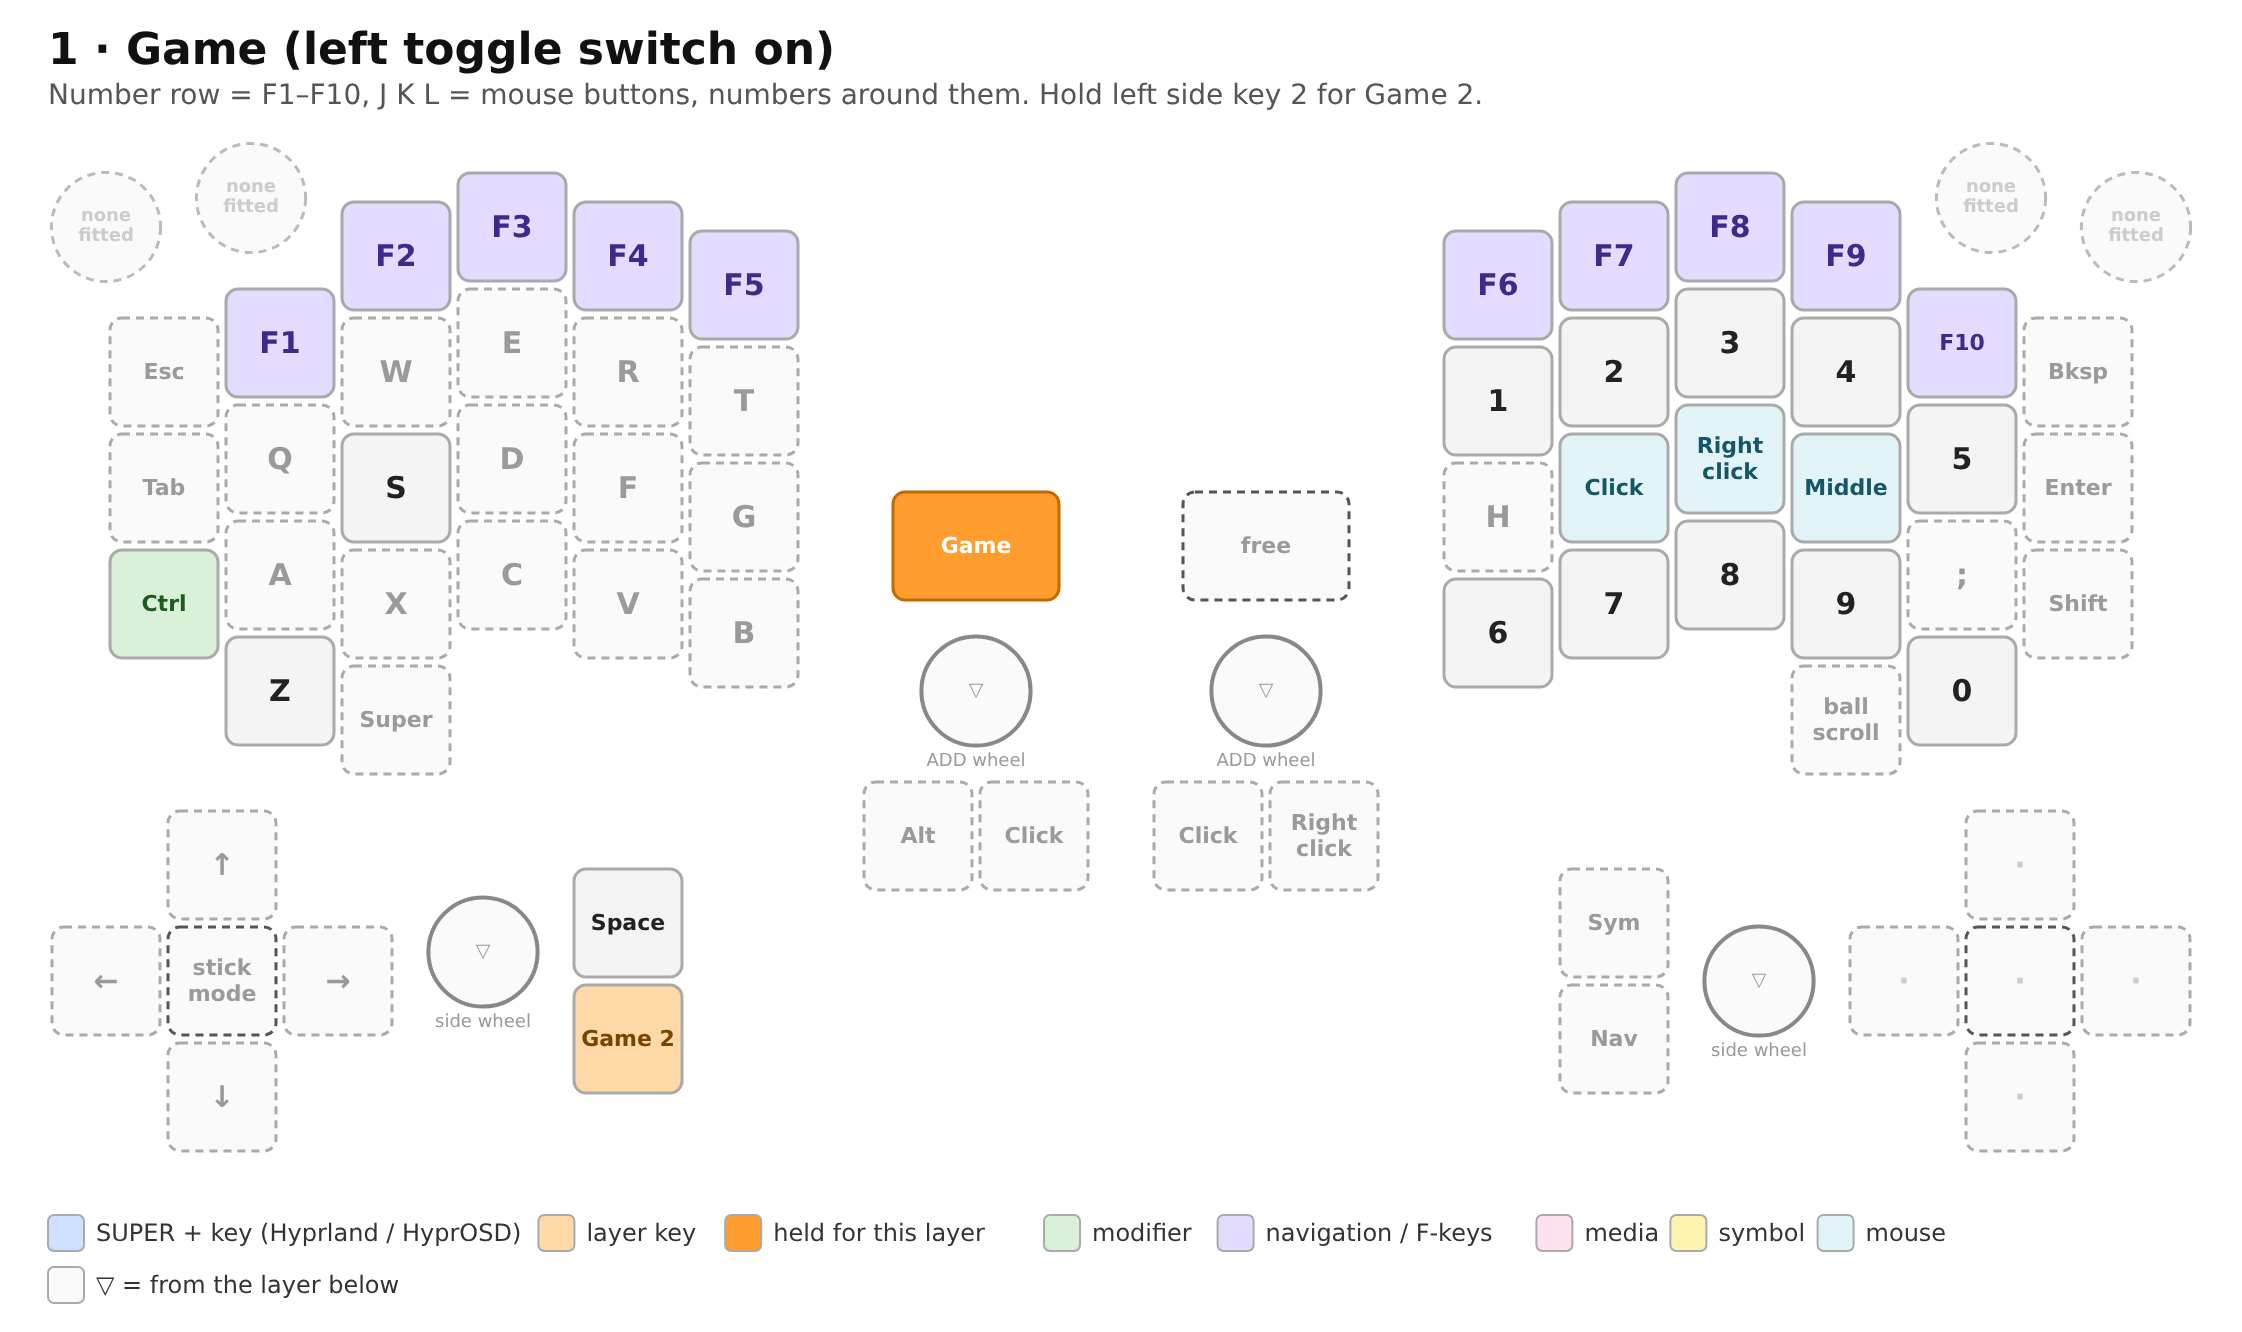
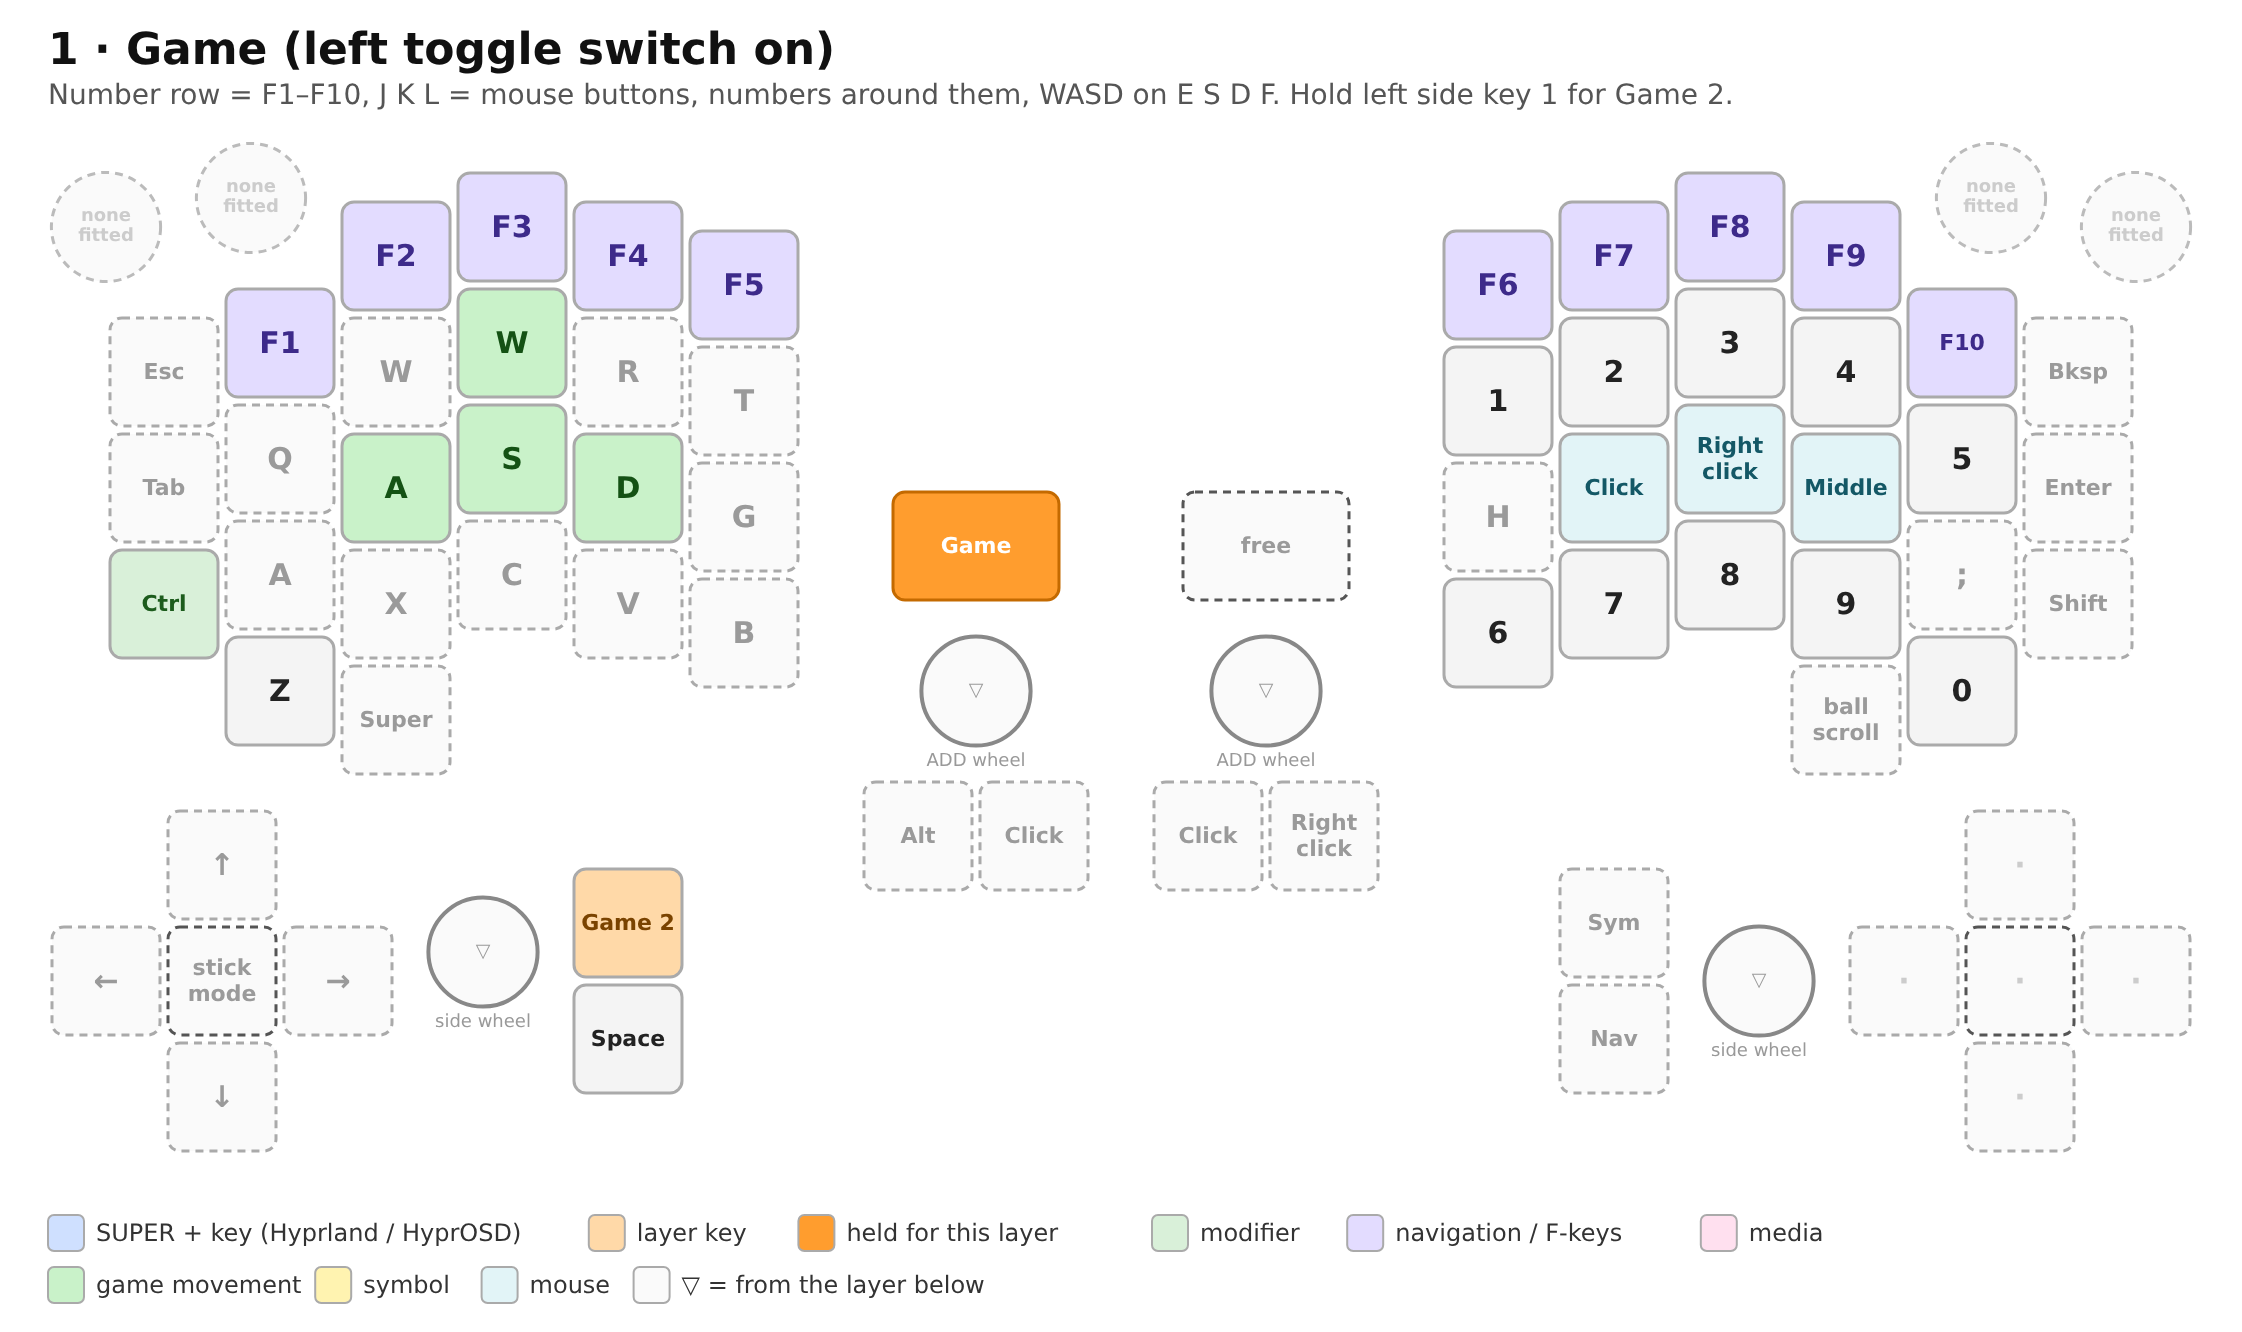
Game: WASD on E S D F, Game 2 on left side key 1, Space on side key 2
The real e s d f are on Game 2 with the other moved keys. Legend
spacing in the pictures fixed.

Claude-Session: https://claude.ai/code/session_019RXHZs18hyJP8Mu26EaWoe

diff --git a/hyprland/tools/render.py b/hyprland/tools/render.py
@@ -167,13 +167,15 @@ LAYERS = [
     {
         "file": "layer1-game", "title": "1 · Game  (left toggle switch on)",
         "note": "Number row = F1–F10, J K L = mouse buttons, numbers around "
-                "them. Hold left side key 2 for Game 2.",
+                "them, WASD on E S D F. Hold left side key 1 for Game 2.",
         "here": "LTOG",
         "keys": {
-            "CTL": ("Ctrl", "mod"), "Z": ("Z", "key"), "S": ("S", "key"),
+            "CTL": ("Ctrl", "mod"), "Z": ("Z", "key"),
             **{n: (f"F{n}", "nav") for n in "1 2 3 4 5 6 7 8 9".split()},
             "0": ("F10", "nav"),
-            "LSIDE1": ("Space", "key"), "LSIDE2": ("Game 2", "layer"),
+            "LSIDE1": ("Game 2", "layer"), "LSIDE2": ("Space", "key"),
+            "E": ("W", "game"), "S": ("A", "game"), "D": ("S", "game"),
+            "F": ("D", "game"),
             "J": ("Click", "mouse"), "K": ("Right|click", "mouse"),
             "L": ("Middle", "mouse"),
             "Y": ("1", "key"), "U": ("2", "key"), "I": ("3", "key"),
@@ -184,10 +186,10 @@ LAYERS = [
         "wheels": {},
     },
     {
-        "file": "layer3-game2", "title": "3 · Game 2  (in Game: hold left side key 2)",
+        "file": "layer3-game2", "title": "3 · Game 2  (in Game: hold left side key 1)",
         "note": "Everything Game moved away: the numbers, the letters "
-                "under the clicks and numbers, F11 / F12, auto mouse on / off.",
-        "here": "LSIDE2", "here_label": "Game 2", "below": "layer1-game",
+                "under the clicks, numbers and WASD, F11 / F12, auto mouse on / off.",
+        "here": "LSIDE1", "here_label": "Game 2", "below": "layer1-game",
         "keys": {
             "ESC": ("F11", "nav"), "BSPC": ("F12", "nav"),
             **{n: (n, "key") for n in "1 2 3 4 5 6 7 8 9 0".split()},
@@ -195,6 +197,7 @@ LAYERS = [
             "SCLN": (";", "key"), "COMM": (",", "key"), "DOT": (".", "key"),
             "SLSH": ("/", "key"),
             "LSCRL": ("Auto|mouse", "cfg"),
+            **{n: (n, "key") for n in "E S D F".split()},
         },
         "wheels": {},
     },
@@ -211,6 +214,7 @@ COLORS = {  # fill, text
     "sym": ("#fff3b0", "#6b5600"),
     "mouse": ("#e2f4f7", "#145866"),
     "cfg": ("#e8e8e8", "#555"),
+    "game": ("#c9f2c9", "#145214"),
     "none": ("#fafafa", "#bbb"),
     "trns": ("#fafafa", "#9a9a9a"),
     "absent": ("#fafafa", "#ccc"),
@@ -218,7 +222,7 @@ COLORS = {  # fill, text
 LEGEND = [("hypr", "SUPER + key (Hyprland / HyprOSD)"),
           ("layer", "layer key"), ("here", "held for this layer"),
           ("mod", "modifier"), ("nav", "navigation / F-keys"),
-          ("media", "media"), ("sym", "symbol"), ("mouse", "mouse"),
+          ("media", "media"), ("game", "game movement"), ("sym", "symbol"), ("mouse", "mouse"),
           ("trns", "▽ = from the layer below")]
 
 U = 58           # pixels per key unit
@@ -343,7 +347,7 @@ def render(layer, pos, names):
                  f'fill="{fill}" stroke="#aaa"/>')
         s.append(f'<text x="{lx + 24}" y="{ly + 13}" font-size="12" '
                  f'fill="#333">{escape(desc)}</text>')
-        lx += 34 + len(desc) * 6.6
+        lx += 40 + len(desc) * 7.2
         if lx > width - 200:
             lx, ly = PAD, ly + 26
     s.append("</svg>")

diff --git a/hyprland/README.md b/hyprland/README.md
@@ -45,7 +45,7 @@ The Hyprland side is in [`killerwhale.lua`](killerwhale.lua).
 | 0 | Base | always |
 | 1 | Game | left toggle switch on |
 | 2 | (free) | right toggle switch on |
-| 3 | Game 2 | in Game: hold left side key 2 |
+| 3 | Game 2 | in Game: hold left side key 1 |
 | 4 | Hypr | hold left side key 1 |
 | 5 | Nav | hold right side key 1 |
 | 6 | Sym | hold right side key 2 |
@@ -240,14 +240,16 @@ fingers, numbers (inventory slots) around them, F-keys on the number row.
 | `J` `K` `L` | `KC_BTN1` `KC_BTN2` `KC_BTN3` | left / right / middle click |
 | `Y U I O P` | `KC_1` … `KC_5` | 1–5 (row above the clicks) |
 | `N M , . /` | `KC_6` … `KC_9`, `KC_0` | 6–0 (row below the clicks) |
+| `E` `S` `D` `F` | `KC_W` `KC_A` `KC_S` `KC_D` | WASD, one key to the right (fingers stay on the home row) |
 | caps spot | `KC_LCTL` | plain Ctrl (no Esc on tap) |
-| `Z`, `S` | `KC_Z`, `KC_S` | plain keys (no Shift / mouse layer on hold) |
-| left SIDE1 | `KC_SPC` | Space (no Hypr layer while gaming) |
-| left SIDE2 | `MO(3)` | hold for **Game 2** |
+| `Z` | `KC_Z` | plain Z (no Shift on hold) |
+| left SIDE1 | `MO(3)` | hold for **Game 2** (no Hypr layer while gaming) |
+| left SIDE2 | `KC_SPC` | Space |
 
-`H` and `;` stay `h` and `;`. Everything else is `▽` (Base).
+`W` and `A` stay `w` and `a`, `H` and `;` stay `h` and `;`; `e`, `d`, `f`
+are on Game 2. Everything else is `▽` (Base).
 
-## 3 — Game 2 (in Game: hold left SIDE2)
+## 3 — Game 2 (in Game: hold left SIDE1)
 
 ![layer3-game2](img/layer3-game2.png)
 
@@ -257,6 +259,7 @@ What Game took away, back under one held thumb key:
 |-----|-------|------|
 | number row | `KC_1` … `KC_0` | 1–0 |
 | `Y U I O P`, `H J K L ;`, `N M , . /` | the letters / `KC_SCLN` `KC_COMM` `KC_DOT` `KC_SLSH` | normal letters (e.g. for chat) |
+| `E` `S` `D` `F` | `KC_E` `KC_S` `KC_D` `KC_F` | the real letters |
 | `ESC` | `KC_F11` | F11 |
 | `BSPC` | `KC_F12` | F12 |
 | left SCROLL | `Toggle Auto Mouse` (stock key) | auto mouse on / off |
@@ -265,7 +268,7 @@ Everything else `▽` (comes from Game).
 
 **Auto mouse while gaming:** the auto-mouse layer (7) sits above Game, so
 right after the trackball moves `D` and `F` become right / left click for
-about ¾ s, which breaks `WASD`. Turn auto mouse off with Game 2 + left
+about ¾ s, which breaks movement. Turn auto mouse off with Game 2 + left
 SCROLL when you start a game (and on again after); the `J K L` clicks don't
 need it.
 
